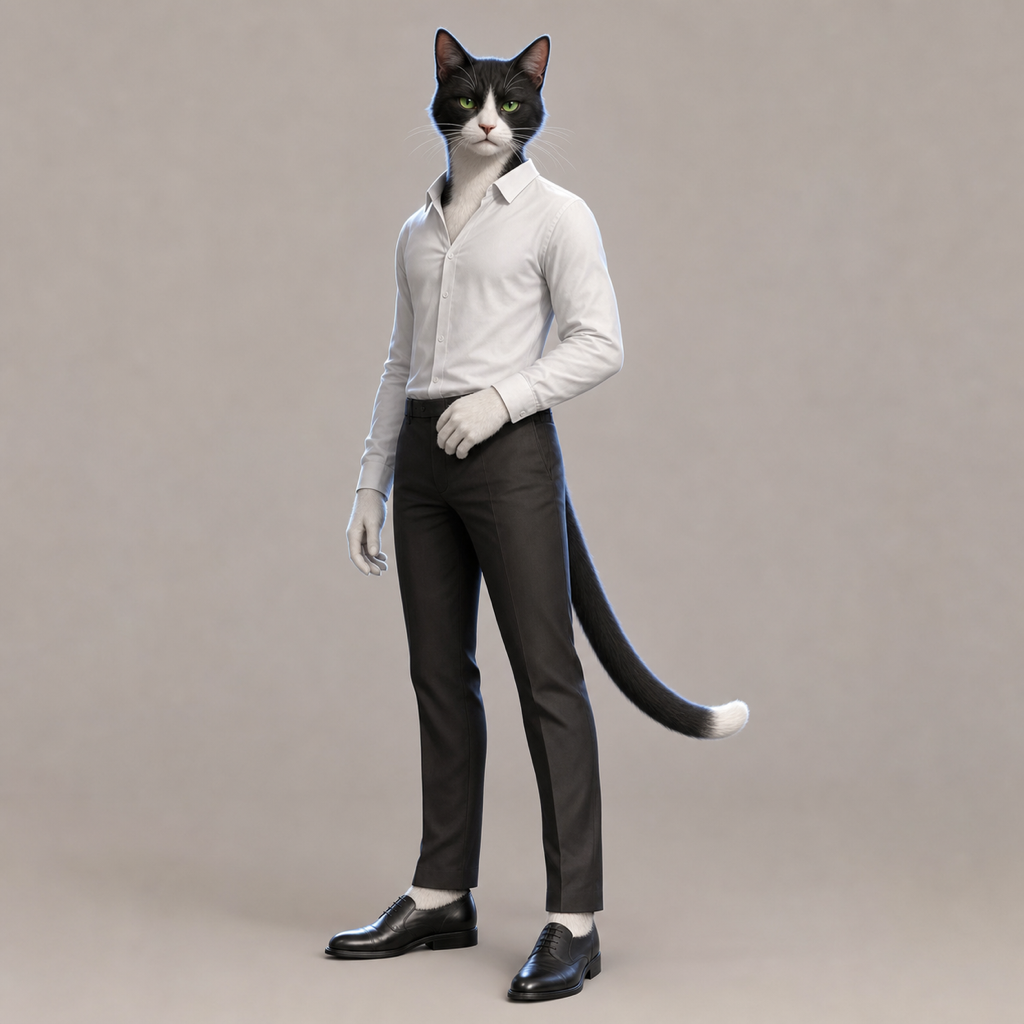
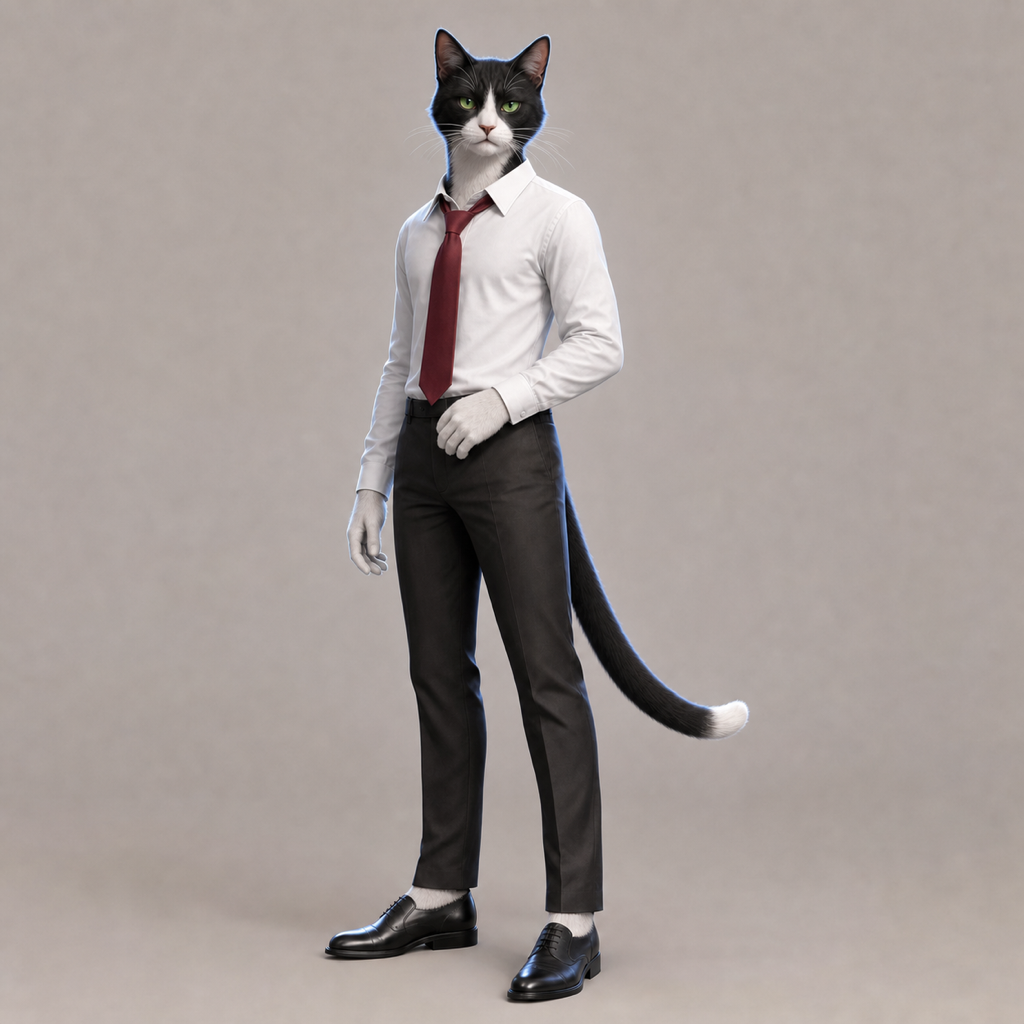
tmp

diff --git a/胜天半子-制作包/05-图片任务/IMG-003-liang-喵亮平.md b/胜天半子-制作包/05-图片任务/IMG-003-liang-喵亮平.md
@@ -13,11 +13,11 @@
 
 角色是成年男性黑白奶牛猫人“喵亮平”，约183cm，体型修长、肩线克制、站姿稳定。必须是完整猫科头脸：三角立耳、猫鼻、短口鼻、胡须、全身短毛；人类成年男性比例颈肩、躯干、双臂和长腿，稳定双足直立；两只手均为覆毛自然五指手，每手恰好五指并有拇指；双足轻微猫科趾行；只有一条尾巴。
 
-身份硬锁：左右近似对称的黑色面罩斑覆盖额头与眼周，鼻梁下部、口鼻和下巴为白色；胸前倒三角白毛；双手腕部以下和双足踝部以下均为纯白毛；双眼清澈绿色；尾巴黑色并有固定白色尾尖。孤鹰岭造型严格采用原剧黑白对照中的“白子”造型：干净白色长袖衬衣，无领带、无外套；深色西裤、朴素黑皮鞋；衬衣下摆为尾巴留自然开口；无项圈、无围巾、无徽章、无武器。
+身份硬锁：左右近似对称的黑色面罩斑覆盖额头与眼周，鼻梁下部、口鼻和下巴为白色；胸前倒三角白毛；双手腕部以下和双足踝部以下均为纯白毛；双眼清澈绿色；尾巴黑色并有固定白色尾尖。孤鹰岭造型严格采用原剧黑白对照中的“白子”造型：干净白色长袖衬衣，领口自然松开最上一粒扣，配一条略微放松的纯色酒红领带；无外套；深色西裤、朴素黑皮鞋；衬衣下摆为尾巴留自然开口；无项圈、无围巾、无徽章、无武器。
 
-构图为自然站立的全身三分之四视角，身体略朝画面左侧，头转向镜头，一只白色五指手自然垂落，另一只轻搭身前；双手、双脚、双耳和整条尾巴完整入画。神情肃正、平静、克制，耳朵自然向前，不靠咆哮形成压力。柔和中性主光清楚分离白衬衣与白毛，微弱冷色轮廓光勾勒黑色花纹和尾巴；细腻表现短毛、棉质衬衣、西裤与旧皮鞋。
+构图为自然站立的全身三分之四视角，身体略朝画面左侧，头转向镜头，一只白色五指手自然垂落，另一只轻搭身前；双手、双脚、双耳和整条尾巴完整入画。神情肃正、平静、克制，耳朵自然向前，不靠咆哮形成压力。柔和中性主光清楚分离白衬衣、酒红领带与白毛，微弱冷色轮廓光勾勒黑色花纹和尾巴；细腻表现短毛、棉质衬衣、哑光领带、西裤与旧皮鞋。
 
-排除：普通四足宠物猫、人脸加猫耳、纯人类、肉色皮肤或人手、动物头套、玩偶服、兽装演员；蓝眼、黄眼、极不对称花脸、白毛范围缺失、长毛、肥胖；警服、徽章、领带、项圈、围巾、外套、武器；少指、多指、融合手指、额外肢体、重复尾巴、第二张脸；拼版、分屏、文字、标签、logo、水印、边框、场景或其他角色。
+排除：普通四足宠物猫、人脸加猫耳、纯人类、肉色皮肤或人手、动物头套、玩偶服、兽装演员；蓝眼、黄眼、极不对称花脸、白毛范围缺失、长毛、肥胖；警服、徽章、蓝色/鲜红色/花纹领带、领结、项圈、围巾、外套、武器；少指、多指、融合手指、额外肢体、重复尾巴、第二张脸；拼版、分屏、文字、标签、logo、水印、边框、场景或其他角色。
 ```
 
 ## B｜头肩口型主图
@@ -27,14 +27,14 @@
 ```text
 严格沿用输入参考图中的同一名黑白奶牛猫人“喵亮平”，不得重新设计面罩斑、白毛范围、脸型、眼色、尾尖或服装。生成1:1方形、1024×1024、高质感3D现实主义国漫头肩近景；浅暖灰无缝背景，只出现一个角色，无文字。
 
-镜头为胸口以上平视正面三分之四近景，脸部占画面约45%，完整保留两耳、胡须、颈肩、胸前倒三角白毛与白衬衣领口。近似对称黑色面罩斑、绿色眼睛和白色口鼻与输入图完全一致。表情保持中性肃正：嘴唇自然闭合、下颌放松、不露齿、不皱成怒容，便于可灵学习稳定口型；视线平稳越过镜头，耳朵自然向前。柔和中性面光清楚照亮眼睛、猫科口鼻和胡须垫，左后方有极弱冷色轮廓光。白色长袖衬衣无领带、无外套、无围巾。
+镜头为胸口以上平视正面三分之四近景，脸部占画面约45%，完整保留两耳、胡须、颈肩、胸前倒三角白毛、白衬衣领口与酒红领带上半段。近似对称黑色面罩斑、绿色眼睛和白色口鼻与输入图完全一致。表情保持中性肃正：嘴唇自然闭合、下颌放松、不露齿、不皱成怒容，便于可灵学习稳定口型；视线平稳越过镜头，耳朵自然向前。柔和中性面光清楚照亮眼睛、猫科口鼻和胡须垫，左后方有极弱冷色轮廓光。白色长袖衬衣领口松开最上一粒扣，配略微放松的纯色酒红领带；无外套、无围巾。
 
-排除：身份漂移、面罩斑换形、白毛消失、变眼色、肥胖化、幼年化；人脸加猫耳、动物头套、玩偶服、纯人类皮肤；张嘴大笑、露齿咆哮、夸张哭泣；领带、项圈、围巾、警服、徽章、武器；额外耳朵、第二张脸、畸形口鼻；文字、标签、logo、水印、分屏、拼版、其他角色。
+排除：身份漂移、面罩斑换形、白毛消失、变眼色、肥胖化、幼年化；人脸加猫耳、动物头套、玩偶服、纯人类皮肤；张嘴大笑、露齿咆哮、夸张哭泣；蓝色/鲜红色/花纹领带、领结、项圈、围巾、警服、徽章、武器；额外耳朵、第二张脸、畸形口鼻；文字、标签、logo、水印、分屏、拼版、其他角色。
 ```
 
 ## 验收
 
 - A/B 面罩斑、绿色眼睛、白口鼻与胸毛完全一致。
 - A 图双足直立、白色五指手足和单条白尾尖尾巴完整；B 图自然闭口、猫科口鼻清晰。
-- 两张图均为白衬衣、无领带无外套。
+- 两张图均为白衬衣、领口略松、纯色酒红领带，无外套。
 - 两张图共同导入可灵并建立 `@喵亮平`。

diff --git a/胜天半子-制作包/06-镜头任务/VID-002-入院与无路可回.md b/胜天半子-制作包/06-镜头任务/VID-002-入院与无路可回.md
@@ -12,9 +12,9 @@
 ## 完整 Omni 提示词
 
 ```text
-1:1方形，高质感3D现实主义国漫，延续无雨无风的孤鹰岭月夜。严格锁定@狸同伟 为壮硕成年狸花猫人、左耳缺口、右眼下浅疤、琥珀眼、纯黑长袖衬衫、深炭灰西裤；@喵亮平 为修长黑白奶牛猫人、对称黑面罩、绿色眼睛、白色五指手足、干净白色长袖衬衣、深色西裤。两者均是完整猫科头脸、人类比例双足身体、覆毛五指手、单条尾巴。@木屋外景 与@木屋内景 保持同一空间。使用两名主体各自绑定音色，自然普通话，口型逐字同步；说话前后保留呼吸，未说话者闭口倾听。无字幕、无可读文字。
+1:1方形，高质感3D现实主义国漫，延续无雨无风的孤鹰岭月夜。严格锁定@狸同伟 为壮硕成年狸花猫人、左耳缺口、右眼下浅疤、琥珀眼、纯黑长袖衬衫、深炭灰西裤；@喵亮平 为修长黑白奶牛猫人、对称黑面罩、绿色眼睛、白色五指手足、干净白色长袖衬衣、领口略松的纯色酒红领带、深色西裤。两者均是完整猫科头脸、人类比例双足身体、覆毛五指手、单条尾巴。@木屋外景 与@木屋内景 保持同一空间。使用两名主体各自绑定音色，自然普通话，口型逐字同步；说话前后保留呼吸，未说话者闭口倾听。无字幕、无可读文字。
 
-镜头1｜2s｜庭院全景｜@喵亮平 独自双足穿过生锈院门，在院中央站定并仰望二楼；白衬衣在冷月下与窗内黑影形成黑白对照。没有帮手，枯叶不动。
+镜头1｜2s｜庭院全景｜@喵亮平 独自双足穿过生锈院门，在院中央站定并仰望二楼；白衬衣与酒红领带在冷月下和窗内黑影形成克制的黑白红对照。没有帮手，枯叶不动。
 
 镜头2｜4s｜庭院仰拍中景｜@喵亮平 稳住呼吸，视线直指窗口，用绑定音色低沉、平静、略慢地说：“狸同伟，放下枪，跟我回去。”句尾停0.4秒，双手自然垂落，不作攻击姿势。
 
@@ -22,7 +22,7 @@
 
 镜头4｜5s｜窗内侧面中近景｜@狸同伟 没有看向枪，只盯着院中的@喵亮平 ，先停0.3秒，再以自嘲、疲惫、较慢语速说：“回去？我还有地方可回吗？”末帧停在他略微闪躲的琥珀眼。
 
-排除：服装漂移、外套、围巾、领带、警服、普通四足猫、肉色人手、多余尾巴、两人同时开口、抢词、字幕、暴雨、强风、枪械动作。
+排除：服装漂移、外套、围巾、领带缺失或变色、警服、普通四足猫、肉色人手、多余尾巴、两人同时开口、抢词、字幕、暴雨、强风、枪械动作。
 ```
 
 验收：D01–D03 逐字正确；两人黑白服装和上下站位稳定；喵亮平始终独自到场。

diff --git a/胜天半子-制作包/06-镜头任务/VID-003-宿敌与旧身份.md b/胜天半子-制作包/06-镜头任务/VID-003-宿敌与旧身份.md
@@ -12,15 +12,15 @@
 ## 完整 Omni 提示词
 
 ```text
-1:1方形，高质感3D现实主义国漫，延续上一段无风无雨的孤鹰岭月夜。@狸同伟 保持左耳缺口、右眼下浅疤、琥珀眼、黑长袖衬衫；@喵亮平 保持对称黑面罩、绿眼、白手足、白长袖衬衣。两者均为双足直立拟人猫人、覆毛五指手、单条尾巴。保持@木屋外景 院中喵亮平与@木屋内景 二楼狸同伟的垂直对峙。使用各自绑定音色，自然普通话、逐字口型同步；一镜一位说话者，无字幕。
+1:1方形，高质感3D现实主义国漫，延续上一段无风无雨的孤鹰岭月夜。@狸同伟 保持左耳缺口、右眼下浅疤、琥珀眼、黑长袖衬衫；@喵亮平 保持对称黑面罩、绿眼、白手足、白长袖衬衣与领口略松的纯色酒红领带。两者均为双足直立拟人猫人、覆毛五指手、单条尾巴。保持@木屋外景 院中喵亮平与@木屋内景 二楼狸同伟的垂直对峙。使用各自绑定音色，自然普通话、逐字口型同步；一镜一位说话者，无字幕。
 
 镜头1｜6s｜窗内中景缓慢推近｜@狸同伟 的黑衬衫宽肩占据窗口，他从自嘲转为带刺的骄傲，眼神牢牢压向庭院，用沙哑中低音、咬字清楚、前慢后重地说：“整个猫圈，最想打败你的猫，就是我。”重读末字我，说完下颌收紧，闭口。
 
-镜头2｜7s｜庭院仰拍中近景｜@喵亮平 不回避目光，白衬衣与黑窗形成黑白棋子般对照。他用低沉、稳定、没有训斥感的绑定音色说：“你叫狸同伟，曾经是这片区域最拼命的守护者。”说到曾经之前停0.3秒，句尾带惋惜而非讽刺。
+镜头2｜7s｜庭院仰拍中近景｜@喵亮平 不回避目光，白衬衣与酒红领带和黑窗形成克制的黑白红对照。他用低沉、稳定、没有训斥感的绑定音色说：“你叫狸同伟，曾经是这片区域最拼命的守护者。”说到曾经之前停0.3秒，句尾带惋惜而非讽刺。
 
 镜头3｜2s｜上下空间双层构图｜固定机位同时看见院中@喵亮平 与二楼窗内@狸同伟 。两人都闭口，只有呼吸和木屋轻响；@狸同伟 的耳朵轻微后压，为下一段定罪蓄力。
 
-排除：外套、围巾、领带、角色换花色、普通四足猫、肉色人手、夸张怒吼、两人同时开口、字幕、强风、暴雨、武器特写。
+排除：外套、围巾、领带缺失或变色、角色换花色、普通四足猫、肉色人手、夸张怒吼、两人同时开口、字幕、强风、暴雨、武器特写。
 ```
 
 验收：D04–D05 完整；“宿敌”转到“曾经的守护者”的情绪转折清楚。

diff --git a/胜天半子-制作包/06-镜头任务/VID-004-定罪与威胁.md b/胜天半子-制作包/06-镜头任务/VID-004-定罪与威胁.md
@@ -12,7 +12,7 @@
 ## 完整 Omni 提示词
 
 ```text
-1:1方形，高质感3D现实主义国漫，延续@木屋外景 的孤鹰岭无风月夜与@木屋内景 的二楼窗口。@狸同伟 固定为黑长袖衬衫的壮硕狸花猫人；@喵亮平 固定为白长袖衬衣的修长黑白猫人；完整猫科头脸、双足人类比例、覆毛五指手、单条尾巴。@CSLR4 只在窗内远处失焦静置，不被触碰。使用两名主体的绑定音色，自然普通话、逐字口型同步；未说话者闭口，无字幕。
+1:1方形，高质感3D现实主义国漫，延续@木屋外景 的孤鹰岭无风月夜与@木屋内景 的二楼窗口。@狸同伟 固定为黑长袖衬衫的壮硕狸花猫人；@喵亮平 固定为白长袖衬衣、领口略松的纯色酒红领带的修长黑白猫人；完整猫科头脸、双足人类比例、覆毛五指手、单条尾巴。@CSLR4 只在窗内远处失焦静置，不被触碰。使用两名主体的绑定音色，自然普通话、逐字口型同步；未说话者闭口，无字幕。
 
 镜头1｜6s｜庭院中近景极慢推近｜@喵亮平 仰望二楼，语气仍克制但字字加重，用低沉平稳的绑定音色说：“可现在，你抢食、占地、欺凌弱小，越过了底线。”三个短项之间各留极短停顿，重读末尾的底线二字。
 
@@ -20,7 +20,7 @@
 
 镜头3｜5s｜窗内近景｜@狸同伟 耳朵压低、颈侧毛微竖，琥珀瞳孔收紧；@CSLR4 仍在远处窗沿失焦不动。他先从鼻腔挤出开头的审判二字，再压低声音突然加重后半句：“审判？喵亮平，你不要逼我杀你！”全句使用绑定音色，沙哑、受伤后的威胁，不作枪械动作。末帧停在他绷紧的覆毛五指手。
 
-排除：手碰枪、装填、瞄准、开火、枪口火焰、外套、围巾、领带、两人同时开口、吞字、字幕、普通四足猫、肉色人手、暴雨或强风。
+排除：手碰枪、装填、瞄准、开火、枪口火焰、外套、围巾、酒红领带缺失或变色、两人同时开口、吞字、字幕、普通四足猫、肉色人手、暴雨或强风。
 ```
 
 验收：D06–D08 逐字正确；CS/LR4 是背景压力而非动作主体；风仍未起。

diff --git a/胜天半子-制作包/06-镜头任务/VID-007-饥荒与追问.md b/胜天半子-制作包/06-镜头任务/VID-007-饥荒与追问.md
@@ -12,9 +12,9 @@
 ## 完整 Omni 提示词
 
 ```text
-1:1方形，高质感3D现实主义国漫。现在时严格保持@狸同伟 黑长袖衬衫、@喵亮平 白长袖衬衣的黑白对照，以及@木屋外景 和@木屋内景 的上下空间；风仍未起。饥荒旧街、鼠迹、缺口空食盆、湿纸箱棚和两名猫人儿童为一次性闪回，冷灰绿与褐黑色，无遗体、无开放伤口。使用@喵亮平 绑定音色，自然普通话、逐字口型同步；画外音镜头中的角色均闭口，无字幕。
+1:1方形，高质感3D现实主义国漫。现在时严格保持@狸同伟 黑长袖衬衫、@喵亮平 白长袖衬衣与领口略松的纯色酒红领带的黑白红对照，以及@木屋外景 和@木屋内景 的上下空间；风仍未起。饥荒旧街、鼠迹、缺口空食盆、湿纸箱棚和两名猫人儿童为一次性闪回，冷灰绿与褐黑色，无遗体、无开放伤口。使用@喵亮平 绑定音色，自然普通话、逐字口型同步；画外音镜头中的角色均闭口，无字幕。
 
-镜头1｜6s｜现在时庭院仰拍中近景｜@喵亮平 抬头，白衬衣被冷月压成灰白，先停0.4秒，再用低沉、压着悲痛、比此前更慢的声音说：“可后来，这块土地闹了饥荒，鼠疫横行，”逗号处自然收气，未说完的指控悬在空气里。
+镜头1｜6s｜现在时庭院仰拍中近景｜@喵亮平 抬头，白衬衣被冷月压成灰白，酒红领带沉为暗红，先停0.4秒，再用低沉、压着悲痛、比此前更慢的声音说：“可后来，这块土地闹了饥荒，鼠疫横行，”逗号处自然收气，未说完的指控悬在空气里。
 
 镜头2｜3s｜冷雨饥荒旧街横移｜镜头掠过封闭店面、墙角鼠迹、接雨的缺口空盆和湿纸箱棚下相拥的两名猫人儿童，不出现遗体。@喵亮平 同一绑定音色作画外音，低声而清楚地说：“幼猫成批饿死。”
 

diff --git a/胜天半子-制作包/06-镜头任务/VID-010-终场与标题.md b/胜天半子-制作包/06-镜头任务/VID-010-终场与标题.md
@@ -12,7 +12,7 @@
 ## 完整 Omni 提示词
 
 ```text
-1:1方形，高质感3D现实主义国漫终幕，延续上一段已经吹起的夜风。@狸同伟 保持左耳缺口、右眼下浅疤、黑长袖衬衫与环纹尾巴；@喵亮平 保持黑白面罩、绿色眼睛、白色五指手足与白长袖衬衣；@木屋外景 和@木屋内景 连续一致。54式手枪只是狸同伟随身携带的不可见剧情信息：不展示拿取、持握、瞄准、使用、身体、伤口或血液。使用两名主体绑定音色，自然普通话、逐字口型同步。除最后标题外无字幕、无文字。
+1:1方形，高质感3D现实主义国漫终幕，延续上一段已经吹起的夜风。@狸同伟 保持左耳缺口、右眼下浅疤、黑长袖衬衫与环纹尾巴；@喵亮平 保持黑白面罩、绿色眼睛、白色五指手足、白长袖衬衣与领口略松的纯色酒红领带；@木屋外景 和@木屋内景 连续一致。54式手枪只是狸同伟随身携带的不可见剧情信息：不展示拿取、持握、瞄准、使用、身体、伤口或血液。使用两名主体绑定音色，自然普通话、逐字口型同步。除最后标题外无字幕、无文字。
 
 镜头1｜4s｜窗内侧面近景｜@狸同伟 双足站在月光剪影中，望向无星夜空，先以低哑、异常平静的绑定音色说出前半句，最后三字突然爆发：“没有人可以审判我！”说完急促呼吸一次，闭口。
 

diff --git a/胜天半子-制作包/02-角色/03-喵亮平.md b/胜天半子-制作包/02-角色/03-喵亮平.md
@@ -6,7 +6,7 @@
 - 身高体态：约 183cm，修长、稳定、肩线克制，步伐轻；一条黑色尾巴带白色尾尖。
 - 固定猫科特征：近似对称的黑色面罩斑；鼻口和胸前白毛；绿色眼睛；短而整齐的毛。
 - 固定人体结构：覆毛五指手，双手和双足末端均为纯白毛；正常肩肘腕与双腿结构。
-- 孤鹰岭固定服装：干净白色长袖衬衣、深色西裤、朴素黑皮鞋；无外套、无领带、无徽章、无武器、无围巾。衬衣下摆为尾巴留自然开口。
+- 孤鹰岭固定服装：干净白色长袖衬衣，领口自然松开最上一粒扣，配一条略微放松的纯色酒红领带；深色西裤、朴素黑皮鞋；无外套、无徽章、无武器、无围巾。衬衣下摆为尾巴留自然开口。
 - 声线：低沉平静的成年男声，中低音；克制、清醒，不以咆哮代替力量。
 - 表演核心：绝大多数时间保持肃正；终场只有瞳孔缩紧、伸出白色覆毛手和眼底悲悯，不夸张哭喊。
-- 禁止：项圈、领带、警服、徽章、武器、围巾、白毛范围漂移、花脸不对称、普通四足猫、纯人脸、动物头套、肉色人手、戏剧性流泪。
+- 禁止：项圈、领结、其他颜色或花纹领带、警服、徽章、武器、围巾、白毛范围漂移、花脸不对称、普通四足猫、纯人脸、动物头套、肉色人手、戏剧性流泪。

diff --git a/胜天半子-制作包/00-审核与定稿/04-修订制作剧本.md b/胜天半子-制作包/00-审核与定稿/04-修订制作剧本.md
@@ -12,7 +12,7 @@
 
 ## 第二场：来者
 
-喵亮平独自双足走进生锈院门。他没有帮手，也没有后援。干净白衬衣在冷月下显出克制的轮廓，白色足部踩过薄霜，在院中央站定，仰望二楼。
+喵亮平独自双足走进生锈院门。他没有帮手，也没有后援。干净白衬衣与略微放松的酒红领带在冷月下显出克制的轮廓，白色足部踩过薄霜，在院中央站定，仰望二楼。
 
 喵亮平：“狸同伟，放下枪，跟我回去。”
 
@@ -110,7 +110,7 @@
 
 狸同伟转身，以双足走入屋内无细节的黑暗，随身的 54 式手枪只作为屋内不可见的剧情信息。画面停留在木屋外景与二楼窗口。窗口微光熄灭。画外传来一声低沉闷响；不展示屋内动作、伤口、血液或身体。
 
-满山飞鸟骤然从黑树林惊起。飞鸟影子掠过喵亮平的猫科面孔。他双足像钉进泥土，伸出的白色五指手缓慢落回白衬衣身侧，神情没有变化，只有眼底滚过极重的悲悯。
+满山飞鸟骤然从黑树林惊起。飞鸟影子掠过喵亮平的猫科面孔。他双足像钉进泥土，伸出的白色五指手缓慢落回白衬衣与酒红领带身侧，神情没有变化，只有眼底滚过极重的悲悯。
 
 枯叶重新伏下。远雷仍压在云层深处，没有落下来。镜头从喵亮平缓慢拉远，山谷重归死寂。
 

diff --git a/胜天半子-制作包/01-全局规范/01-视觉与声音圣经.md b/胜天半子-制作包/01-全局规范/01-视觉与声音圣经.md
@@ -45,4 +45,4 @@
 
 ## 全片负面约束
 
-不出现普通四足宠物猫、纯人类角色、真人皮肤、纯人脸、猫耳人类、动物头套、玩偶服、兽装表演者、猫头与人身生硬拼接、额外手臂、额外手指、融合手掌、重复尾巴、角色换花色、服装漂移、黑衬衫或白衬衣变成外套/围巾、眼睛变色、无关动物、喜剧表情、夸张卡通弹性、现代车辆、直升机、手机、霓虹赛博朋克化、字幕、对白文字、logo、水印、界面、黑边或分屏。除专门标题镜头外，画面中不得出现任何可读文字。
+不出现普通四足宠物猫、纯人类角色、真人皮肤、纯人脸、猫耳人类、动物头套、玩偶服、兽装表演者、猫头与人身生硬拼接、额外手臂、额外手指、融合手掌、重复尾巴、角色换花色、服装漂移、黑衬衫或喵亮平白衬衣与酒红领带的组合变成外套/围巾/其他领带、眼睛变色、无关动物、喜剧表情、夸张卡通弹性、现代车辆、直升机、手机、霓虹赛博朋克化、字幕、对白文字、logo、水印、界面、黑边或分屏。除专门标题镜头外，画面中不得出现任何可读文字。

diff --git a/胜天半子-制作包/06-镜头任务/VID-009-崩塌恩怨与挽留.md b/胜天半子-制作包/06-镜头任务/VID-009-崩塌恩怨与挽留.md
@@ -12,7 +12,7 @@
 ## 完整 Omni 提示词
 
 ```text
-1:1方形，高质感3D现实主义国漫，切回孤鹰岭现在时。@狸同伟 固定黑长袖衬衫，@喵亮平 固定白长袖衬衣；@木屋外景 与@木屋内景 连续一致。@CSLR4 始终在远处窗沿失焦静置，不被触碰。前3秒仍无风；从镜头2开始，夜风第一次出现并持续到终场。使用两名主体各自绑定音色，自然普通话、逐字口型同步，一镜一位说话者，无字幕。
+1:1方形，高质感3D现实主义国漫，切回孤鹰岭现在时。@狸同伟 固定黑长袖衬衫，@喵亮平 固定白长袖衬衣与领口略松的纯色酒红领带；@木屋外景 与@木屋内景 连续一致。@CSLR4 始终在远处窗沿失焦静置，不被触碰。前3秒仍无风；从镜头2开始，夜风第一次出现并持续到终场。使用两名主体各自绑定音色，自然普通话、逐字口型同步，一镜一位说话者，无字幕。
 
 镜头1｜3s｜窗内极近景缓慢推近｜@狸同伟 琥珀眼里的凶光逐渐碎开，耳朵后压，吞咽一次；覆毛五指手从紧绷变为缓慢松开，但不接触@CSLR4 。全程无台词，只有呼吸和木屋轻响。
 

diff --git a/胜天半子-制作包/02-角色/06-拟人化服装与结构总表.md b/胜天半子-制作包/02-角色/06-拟人化服装与结构总表.md
@@ -17,7 +17,7 @@
 |---|---|---|---|---|
 | 狸同伟（孤鹰岭现在时） | 纯黑长袖衬衫，领口自然敞开一粒扣 | 深炭灰西裤 | 无围巾、无外套 | 原剧“黑子”对照；不得换成西装外套、盔甲或裸身。 |
 | 年轻狸同伟（闪回） | 短款炭灰夹克、深灰圆领上衣 | 耐磨深色长裤 | 无围巾 | 不得出现成年孤鹰岭黑衬衫或右眼疤。 |
-| 喵亮平（孤鹰岭现在时） | 干净白色长袖衬衣，无领带无外套 | 深色西裤 | 无 | 原剧“白子”对照；不得出现徽章、警服、围巾或武器。 |
+| 喵亮平（孤鹰岭现在时） | 干净白色长袖衬衣，领口松开最上一粒扣，配略微放松的纯色酒红领带 | 深色西裤 | 无外套 | 原剧“白子”对照；不得出现徽章、警服、围巾、武器或其他颜色/花纹的领带。 |
 | 浅灰猫人儿童 | 旧灰绿套头衫 | 深色短裤 | 无 | 不得换色或变成普通幼猫。 |
 | 黑白猫人儿童 | 旧米白衬衫 | 褐色背带裤 | 无 | 左眼周黑斑与衣服固定。 |
 | 犬族恶徒 | 旧夹克/背心 | 深色长裤 | 无标识 | 不得现代帮派化、武装化。 |

diff --git a/胜天半子-制作包/00-审核与定稿/05-青雀可灵3.0专项审核报告.md b/胜天半子-制作包/00-审核与定稿/05-青雀可灵3.0专项审核报告.md
@@ -41,7 +41,7 @@
 现在时继续硬锁原剧孤鹰岭的黑白关系：
 
 - 狸同伟：纯黑长袖衬衫、深炭灰西裤，无外套、围巾、领带。
-- 喵亮平：干净白色长袖衬衣、深色西裤，无外套、围巾、领带。
+- 喵亮平：干净白色长袖衬衣、领口略松的纯色酒红领带、深色西裤，无外套、围巾。
 
 所有视频提示词均重复这组关键服装锁，避免模型自动补成警服、西装外套或户外大衣。
 
@@ -77,7 +77,7 @@
 
 1. 台词是否逐字正确、是否吞字或两人同时开口。
 2. 绑定音色是否跨任务稳定，普通话人名是否读对。
-3. 黑衬衫/白衬衣、猫科脸、花纹、耳缺、疤痕和五指手是否稳定。
+3. 黑衬衫/白衬衣与酒红领带、猫科脸、花纹、耳缺、疤痕和五指手是否稳定。
 4. 木屋上下空间与 CS/LR4 是否连续。
 5. 闪回的一次性元素是否清楚服务剧情。
 6. 终场是否只在屋外以声音和反应表达，标题是否准确。
